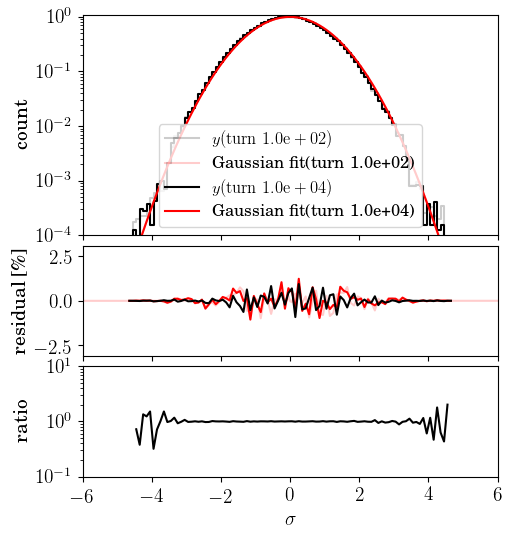
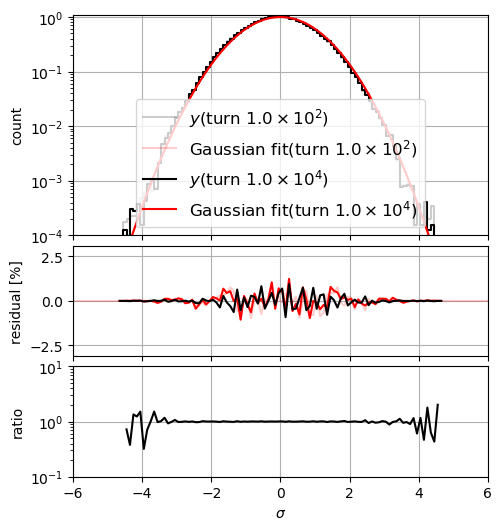
change lifetrac sim profile plots

diff --git a/scripts/lifetrac_sim_results/plot_hist_7th_10th.py b/scripts/lifetrac_sim_results/plot_hist_7th_10th.py
@@ -3,17 +3,18 @@ import os
 from matplotlib.pyplot import *
 
 # directory with simulation results
-basedir = "/home/mfittere/work/MDs/mdelens/simulations/lifetrac"
+#basedir = "/home/mfittere/work/MDs/mdelens/simulations/lifetrac"
[1 lines of base64/hex data omitted]
 # plot directory for paper
 plt_dir = "plots"
 
-# use weighted Gaussian (p1e4t1e2s100weight) or not (p1e4t1e2s100)
+## use weighted Gaussian (p1e4t1e2s100weight) or not (p1e4t1e2s100)
 weighted = False
 # pulsing pattern H+V
-sk = 't7sk'
-ylimresdiff = [-7,7]
-#sk='t10sk'
-#ylimresdiff = [-3.1,3.1]
+#sk = 't7sk'
+#ylimresdiff = [-7,7]
+sk='t10sk'
+ylimresdiff = [-3.1,3.1]
 #sk='ran'
 #ylimresdiff = [-3.1,3.1]
 
@@ -43,6 +44,7 @@ for p in 'xyz':
 ## normal Gaussian
 #  opt = '2016injnocolc15o+19_6erra2b2u/1/eps3.5/p1e4t1e2s100'
 #close('all')
+#print(os.path.join(basedir,opt))
 #t=LifeDeskDB.getdata(ltr_dir=os.path.join(basedir,opt),plt_dir=plt_dir)
 #t.get_hist()
 #t.plot_hist_xyz(title='no excitation',ylimhist=[1.e-4,1.1],ylimresdiff=ylimresdiff,ylimresrat=[0.1,10])
